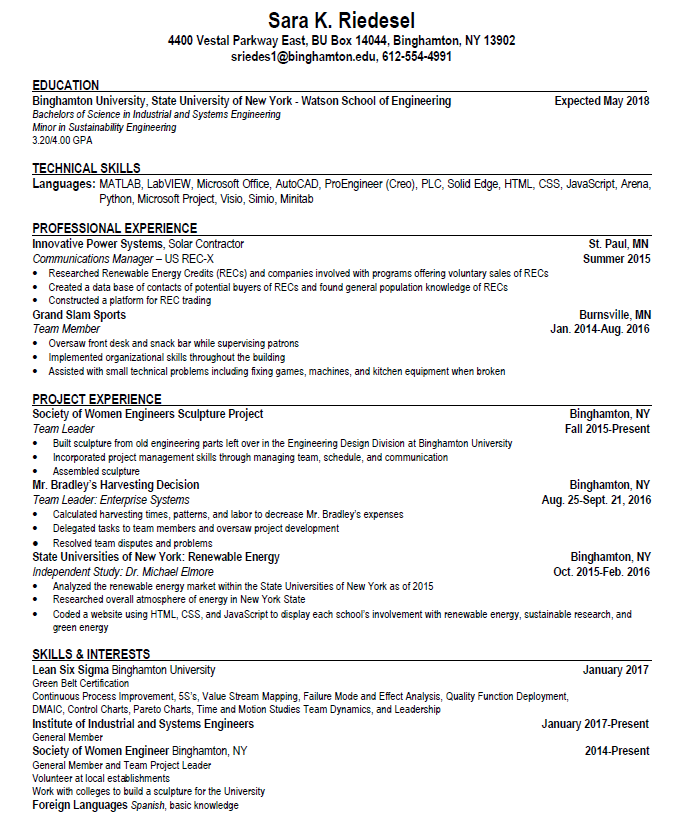
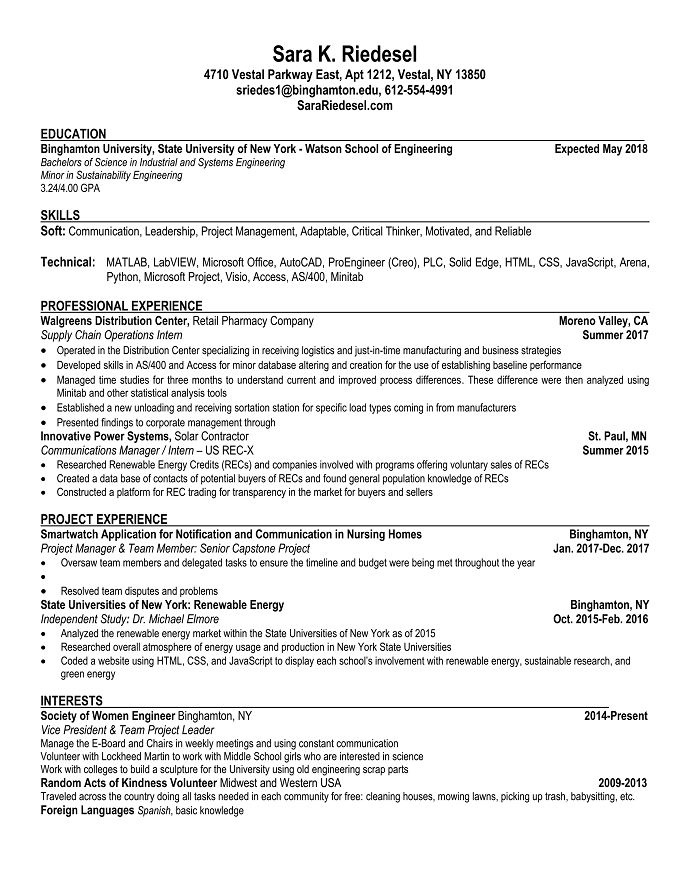
Changes
These are changed to the resume and senior year

diff --git a/index.html b/index.html
@@ -55,7 +55,7 @@
     <div class="w3-col l3 m6 w3-margin-bottom">
       <div class="w3-display-container" style="width:300%">
           <br>
-        <p>Currently I am a junior majoring in Industrial & Systems Engineer at Binghamton University in New York.  I also have been taking classes to fufill a minor in Sustainability Engineering.  In May 2018, I will graduate with a Bachelor's of Science.  I was born in Billings, Montana and raised in Burnsville, MN. 
+        <p>Hello! Thank you for visiting my personal website! <br>This year I am finally a senior majoring in Industrial & Systems Engineer at Binghamton University in New York.  I have also been taking classes to fufill a minor in Sustainability Engineering.  In May 2018, I will graduate with a Bachelor's of Science.  I was born in Billings, Montana and raised in Burnsville, MN. 
          
             
         </p>
@@ -81,7 +81,7 @@
   <div class="w3-row-padding">
     <div class="w3-col l3 m6 w3-margin-bottom">
       <img src="binghamton.jpg" alt="Binghamton" style="width:100%">
-      <p>In August 2014, I started attending Binghamton University in updstate New York.  This decision came from the desire to go out east and attend a sustainable school. In May 2018, I will graduate with a Bachehlor's of Science in Industrial & Systems Engineering. </p>
+      <p>August 2014, I started attending Binghamton University in upstate New York.  This decision came from the desire to go out east and attend a sustainable school. In May 2018, I will graduate with a Bachehlor's of Science in Industrial & Systems Engineering. </p>
     </div>
     <div class="w3-col l3 m6 w3-margin-bottom">
       <img src="iisecrop.png" alt="IISE" style="width:105%"><br><br>
@@ -89,7 +89,7 @@
     </div>
     <div class="w3-col l3 m6 w3-margin-bottom">
       <img src="swe.png" alt="SWE" style="width:100%">
-      <p>I have been a member of the Society of Women Engineers since my freshman year of college.  Currently I am heading a project for the society. My team is building a sculpture made out of old engineering parts the University no longer uses. This project will be displayed in the freshman engineering design division.</p>
+      <p>This year I am my section's Vice President for SWE. I have been a member of the Society of Women Engineers since my freshman year of college and have loved every single year!  This year I will be managing the E-Board and Chairs among other things.</p>
     </div>
     <div class="w3-col l3 m6 w3-margin-bottom">
       <img src="lean.jpg" alt="Lean" style="width:50%">
